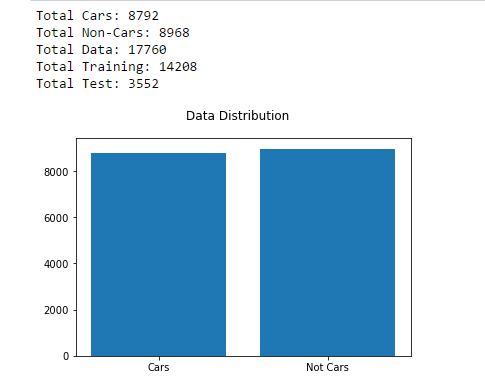
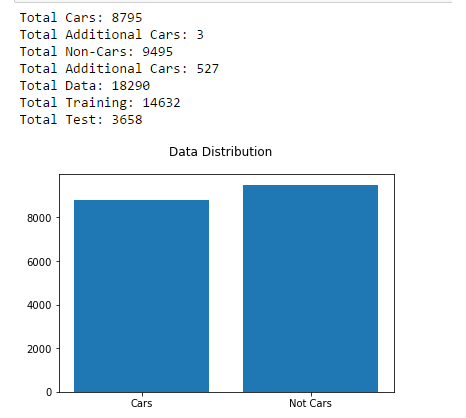
data distribution image changed

Changed region(s): [[0.0601, 0.3367, 0.8712, 0.9796], [0.03, 0.0, 0.9914, 0.3061], [0.4206, 0.0612, 0.4506, 0.0918]]

diff --git a/README.md b/README.md
@@ -30,8 +30,8 @@ Project video is available at [./project_video_cars.mp4](./project_video_cars.mp
 The training part has been coded in a jupyter notebook, where as vehicle identification pipeline has been coded as python files.
 
 [VehicleDetection-Training](training.ipynb)  
-[Exploration](exploration.ipynb)
-[process]  (process.ipynb) ** playing around with window sizes / detection **
+[Exploration](exploration.ipynb)  
+[process](process.ipynb) ** playing around with window sizes / detection **  
 [car_finder.py](car_finder.py)  
 
 ### Data Used For Training
@@ -40,7 +40,7 @@ Mostly used GTI and KITTI car / not-car images that were given as part of [vehic
 
 During testing a lot of times the yellow lane line was being misclassified as a car, therefore I generated a number of smaller 64x64 images from the first 100 frames of the video, which had no car visible and used them as part of non-vehicles set.
 
-I tried using the udacity's labeled data set [Udacity Labeled Dataset](https://github.com/udacity/self-driving-car/tree/master/annotations) but at that point I didn't know the column headings were wrong and I could hardly get the correct car frames out of it, so didn't use it at that point. [extract_udacity.ipynb](extract_udacity.ipynb) I later found out that the correct column labels were x_min, x_max, y_min and y_max
+I tried using the udacity's labeled data set [Udacity Labeled Dataset](https://github.com/udacity/self-driving-car/tree/master/annotations) but at that point I didn't know the column headings were wrong and I could hardly get the correct car frames out of it, so didn't use it at that point. [extract_udacity.ipynb](extract_udacity.ipynb) I later found out that the correct column labels were x_min, x_max, y_min and y_max but for it to be used I would have had to generate almost equal number of non car images.
 
 ### Data Distribution
 
